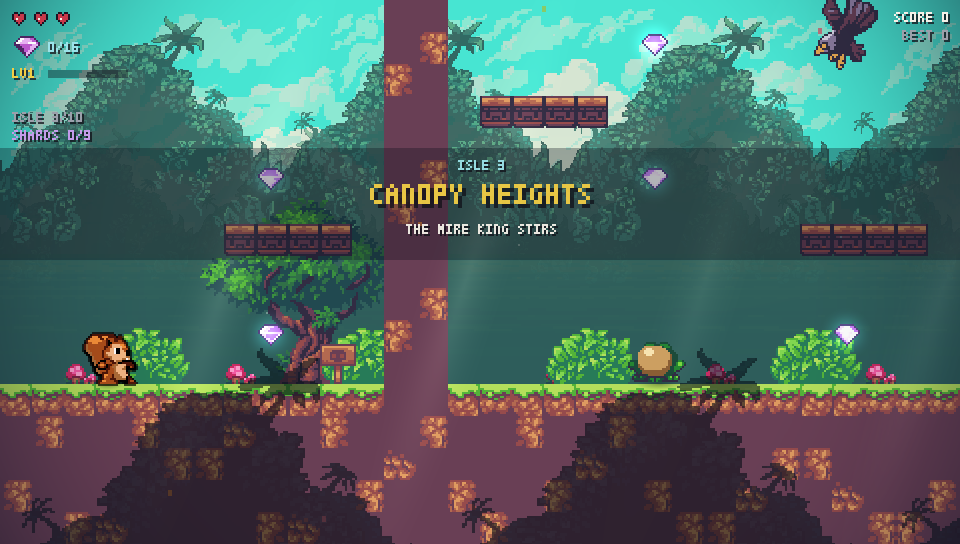
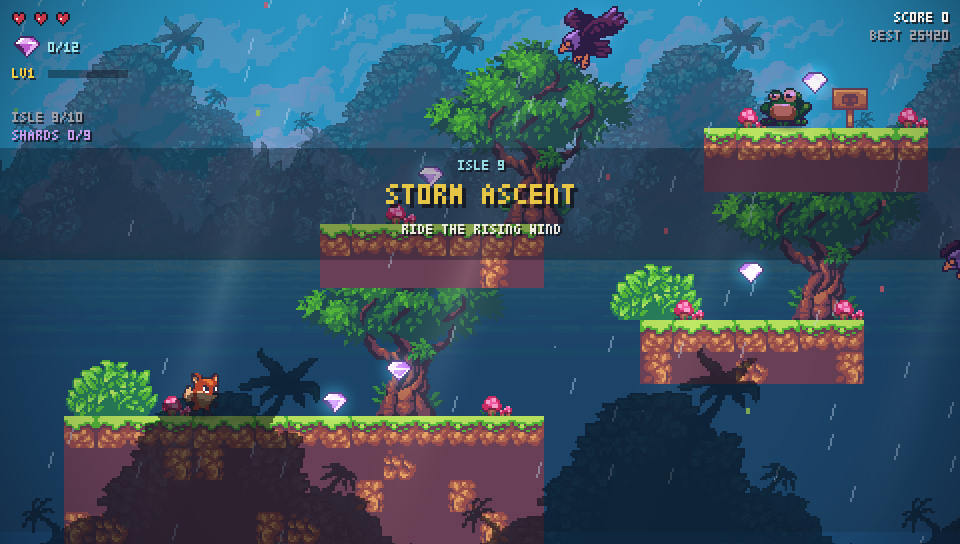
README: enemy breeds, isle atmospheres, void-fall cost; fresh screenshot
Screenshot now shows the fox hero on rain-swept Storm Ascent instead of
the retired squirrel build.

diff --git a/README.md b/README.md
@@ -63,7 +63,7 @@ Tyrant on isle 10 and relight the Beacon.
 
 ## Mechanics
 
-- Press jump again in the air → **double jump** (tucks into a spinning ball);
+- Press jump again in the air → **double jump** (barrel roll);
   **hold jump in the air → tail glide** (slow fall, strong air control)
 - **Stomp**: land on a foe to squash it — hold jump for a high bounce, and
   the stomp refreshes your air jump for big chain routes
@@ -73,12 +73,17 @@ Tyrant on isle 10 and relight the Beacon.
 - **Skill levels**: LV2 dash · LV3 double shot · LV4 rapid fire · LV5 +1 max HP · LV6 triple shot
 - **Enemies**: eagle (chases, speed-capped), frog (crouch-telegraphs its hop),
   opossum (patrols) + 4 bosses with minion waves and telegraphed attacks
-- Cherries heal; checkpoint signs move your respawn point **and heal you full**
+- **Enemy breeds**: later isles field tougher strains — frostbitten,
+  emberbacked, then rift-touched — faster, meaner, +1 HP from isle 6
+- **Isle atmospheres**: fireflies in the hollows, driving rain and lightning
+  over Storm Ascent, embers rising through the Tyrant's arena
+- Cherries heal; checkpoint signs move your respawn point **and heal you full**;
+  falling off an isle costs 1 HP (never lethal)
 - Best score persists on device; completion time shown at the end
 - Coyote time, variable jump height, squash & stretch, gem magnet, hit-stop,
-  ground shadows, dash afterimages, isle intro cards
-- Every isle is machine-validated: each gem and door is reachable from both
-  the spawn and the door — no dead ends, no soft-locks
+  ground shadows, isle intro cards
+- Every isle is **physics-verified**: a validator replays the real jump arcs
+  and proves every gem and door reachable — no dead ends, no soft-locks
 
 ## Desktop build
 